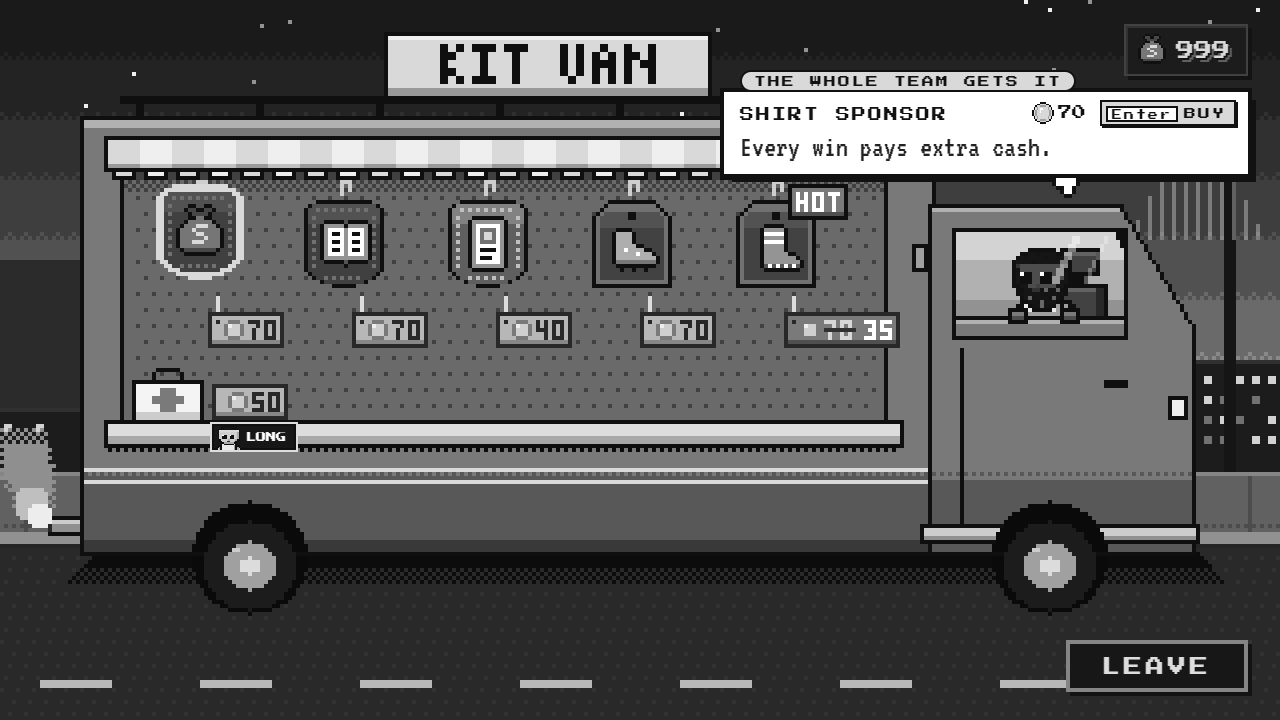
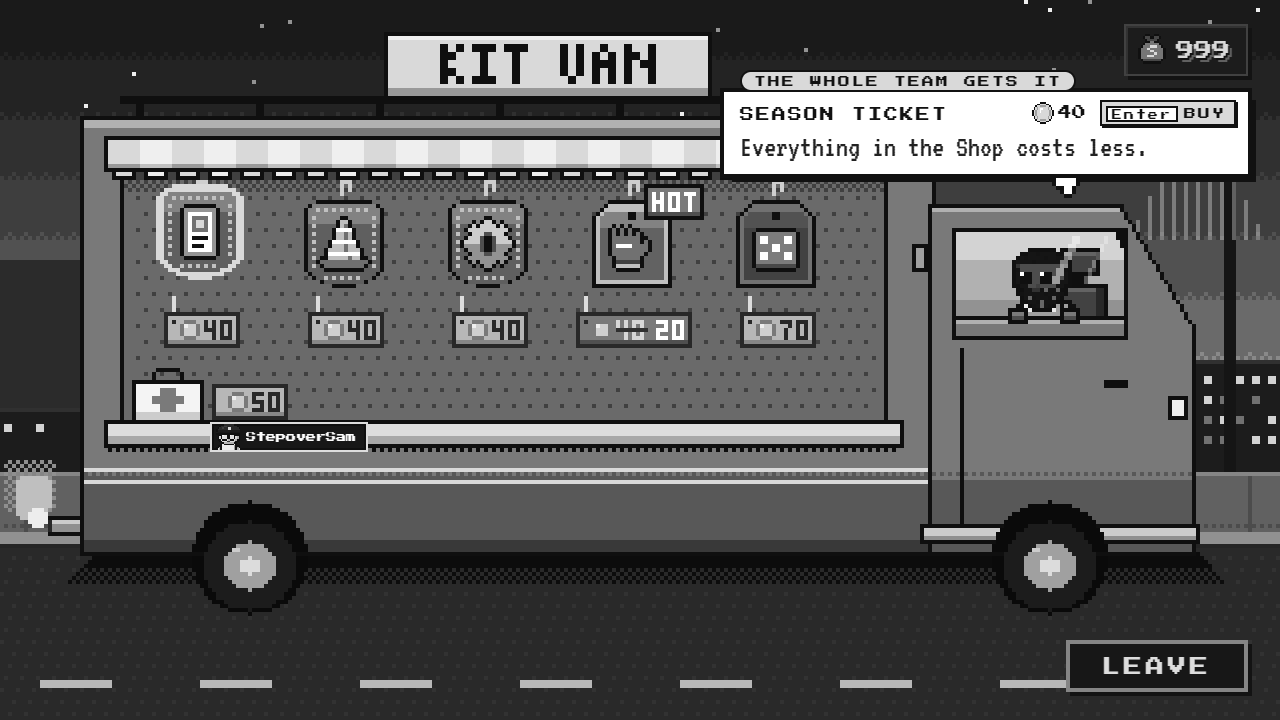
fix: Center KIT VAN price tags under their items
Tags were anchored by their left edge just right of the hook, so once
they grew (coin, struck HOT price) they sat visibly to the right of the
item above. They now hang centred under the item, string tied to the
tag's corner hole.

diff --git a/src/ui/kitvan.js b/src/ui/kitvan.js
@@ -125,11 +125,14 @@ window.SFC = window.SFC || {};
   }
   // thẻ giá bìa cát-tông treo dây: đồng xu + số · HOT = thẻ đỏ, giá cũ nhỏ gạch ngang đứng trước giá mới (o.was) · đã bán = chữ SOLD đỏ
   // · không đủ tiền (poor, UX review 2026-11-02) = bìa xám tối, số đỏ, xu xám (món trên móc giữ nguyên màu để vẫn ngắm được)
-  // · o.loose: thẻ dựng trên quầy cạnh hộp cứu thương (không dây treo, không lỗ xỏ dây)
+  // · o.loose: thẻ dựng trên quầy cạnh hộp cứu thương (không dây treo, không lỗ xỏ dây), cx = mép trái
+  // · thẻ treo: cx = tâm món đồ phía trên -> thẻ căn giữa dưới món (owner 2026-11-05: thẻ rộng ra mà vẫn neo mép trái nên lệch hẳn sang phải),
+  //   dây buộc vào lỗ xỏ ở góc trái thẻ
   function tag(cx, y, o) {
     const sold = o.sold, dim = o.poor && !sold, hot = o.hot && !sold, label = sold ? 'SOLD' : String(o.price);
-    const was = hot && o.was ? String(o.was) : '', ww = was ? textW(was) + 3 : 0, x = cx - 2, w = sold ? textW(label) + 6 : 12 + ww + textW(label);
-    if (!o.loose) P(cx, y - 4, 1, 4, '#e8dcc4');
+    const was = hot && o.was ? String(o.was) : '', ww = was ? textW(was) + 3 : 0, w = sold ? textW(label) + 6 : 12 + ww + textW(label);
+    const x = o.loose ? cx - 2 : cx - Math.floor(w / 2);
+    if (!o.loose) P(x + 2, y - 4, 1, 4, '#e8dcc4');
     P(x, y, w, 9, '#3a2410'); P(x + 1, y + 1, w - 2, 7, dim ? '#5a5060' : hot ? '#ff3d5a' : '#d8b27a'); P(x + 1, y + 7, w - 2, 1, dim ? '#3e3646' : hot ? '#b8202e' : '#a8824a');
     if (!o.loose) P(x + 2, y + 2, 1, 1, '#3a2410');
     if (sold) return text(label, x + 4, y + 2, '#c8202e');
@@ -346,7 +349,7 @@ window.SFC = window.SFC || {};
       const onHook = !s.sold || (reaching && hand.item.kind === 'item' && hand.item.i === i);
       const lit = S.hover === s.key && !s.sold, lift = (lit ? -3 : 0) + dy;
       if (onHook) { patch(s, x - 10, 51 + lift, lit); if (s.hot) hotSticker(x + 3, 47 + lift); }
-      tag(x + 4, 79 + dy, { price: s.price, was: s.was, hot: s.hot, sold: s.sold && !onHook, poor: s.poor });
+      tag(x, 79 + dy, { price: s.price, was: s.was, hot: s.hot, sold: s.sold && !onHook, poor: s.poor });
       if (s.key && S.hover === s.key) point = { x: x + 5, y: 66 + lift };
     });
     // hộp cứu thương trên quầy + thẻ giá dựng ngay bên phải (UX màn hình 2026-11: trước đây thẻ treo dưới mép quầy, cách hộp 1 tấm quầy)

diff --git a/docs/ux-screens/README.md b/docs/ux-screens/README.md
@@ -80,6 +80,7 @@ Xong thì thêm 1 dòng vào Nhật ký. Commit / merge / push chỉ khi owner b
 - 2026-11-05 — `kitvan` (A, agent, kiểm lại ảnh): thẻ giá có đồng xu tròn 5x5, thẻ HOT có giá cũ gạch ngang. Món đang chọn viền vàng 2 pixel + nhấc khỏi móc; dùng phím / tay cầm thì bàn tay pixel vẽ trên canvas chỉ vào món (chuột nhúc nhích là tắt). Bong bóng tài xế có giá + nút [phím] BUY (hộp cứu thương: HEAL), thiếu tiền thì giá xám số đỏ, nút mờ; bong bóng rộng 262. Hộp cứu thương: thẻ giá ngay cạnh hộp + thẻ tên (mặt + tên) người sẽ khỏi. Sửa lỗi 2+ chấn thương: chữa 1 người thì các hộp còn lại giữ chỗ + SOLD, chọn được, tài xế nói One treatment per visit.; dòng Healed không mất sau khi vẽ lại. LEAVE thành nút thường. Miếng vá / thẻ treo pha màu độ hiếm đậm hơn, bảng gỗ tối 1 bậc. Chữ mới: BUY, One treatment per visit. (+ HEAL trước đó thiếu ở các gói). Ảnh sau: `shots/after/kitvan*`.
 - 2026-11-05 — `legend` (A, agent, kiểm lại ảnh): ô nhiệm vụ trial = "3× [phím] + [phím]" keycap 12px (cỡ chữ 40s), tên combo 1 lần ngay dưới; dưới ô là mô tả combo, câu luật cũ mờ nhỏ lại; dưới START / SKIP dòng mờ Fail? No harm done. Dải LEGEND (2 thẻ) thêm chip chỉ số chỉ mũi tên (PAS ▲ / PAC ▼, mũi tên vẽ bằng CSS). Thẻ nhận: trỏ thẻ nào thì ô LEGEND của thẻ đó hiện LEGEND mới nhấp nháy (bindJoin, không đổi chữ ký squadCard). Nhãn YOU to bằng tên (chỉ thẻ nhận). Dưới Who gets him? dòng mờ AI teammates use his combo on their own. Ảnh sau: `shots/after/legend-*`.
 - 2026-11-05 — Gộp xong 13 màn từ 6 agent (cherry-pick lên nhánh này), build lại font ja 1 lần cho mọi chữ mới (1327 chữ). Còn chờ owner: tab GOAT PATH, HUD (chưa chấm), sự kiện ??? (đang chờ góp ý từng sự kiện `ev-*`).
+- 2026-11-05 — `kitvan` (owner: "tag giá bị lệch so với món đồ, nhìn kỳ"): thẻ giá treo căn giữa dưới món (trước neo mép trái ở móc + 4 nên thẻ rộng ra là lệch hẳn sang phải), dây buộc vào lỗ xỏ góc trái thẻ. Ảnh sau: `shots/after/kitvan.*`.
 <!-- mỗi lần xử lý góp ý: thêm 1 dòng ở đây (ngày · màn nào · phương án · đã làm gì) -->
 
 ## Chưa kiểm / còn hở
